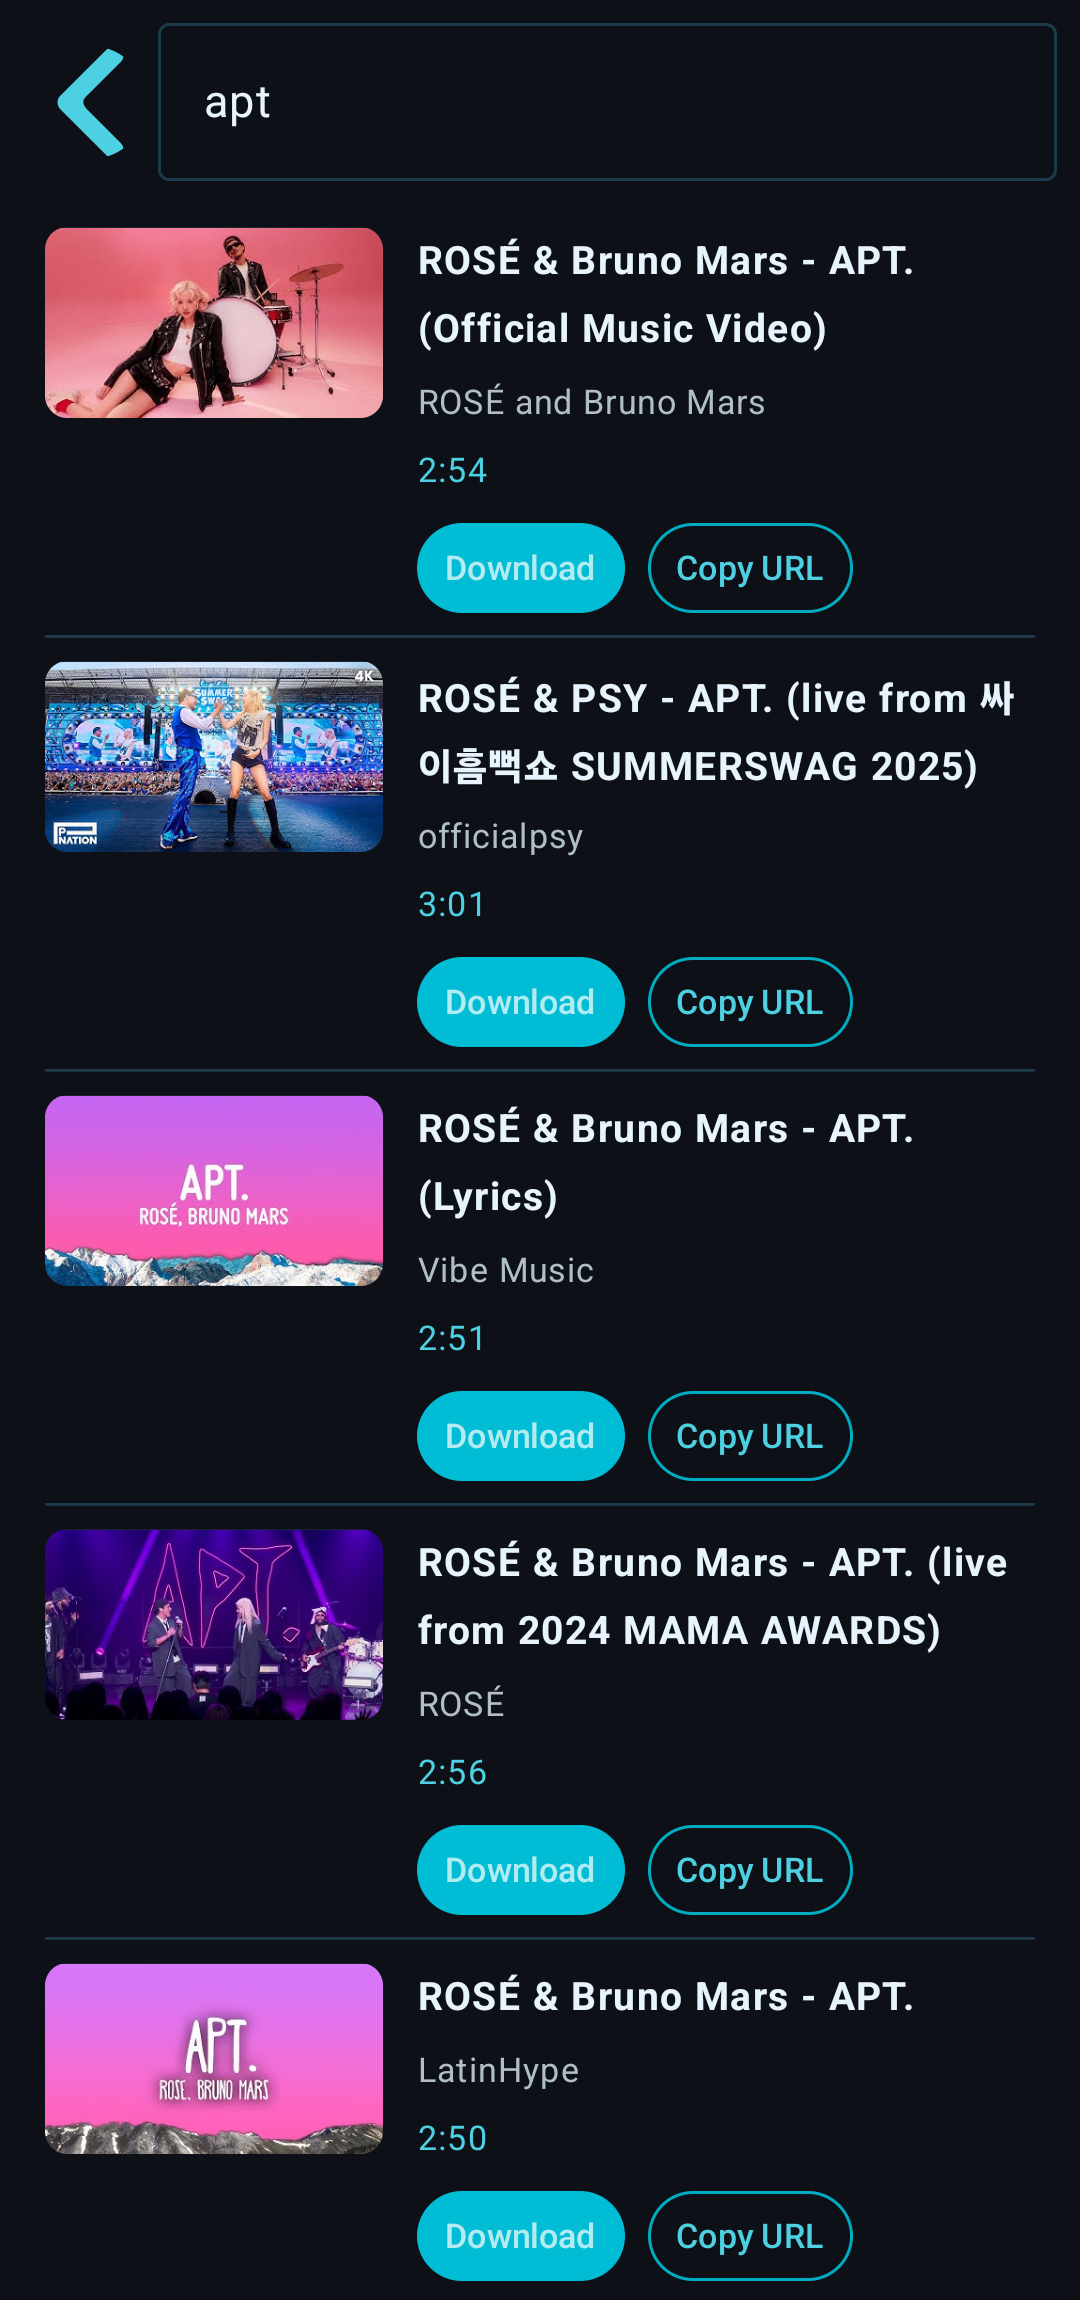
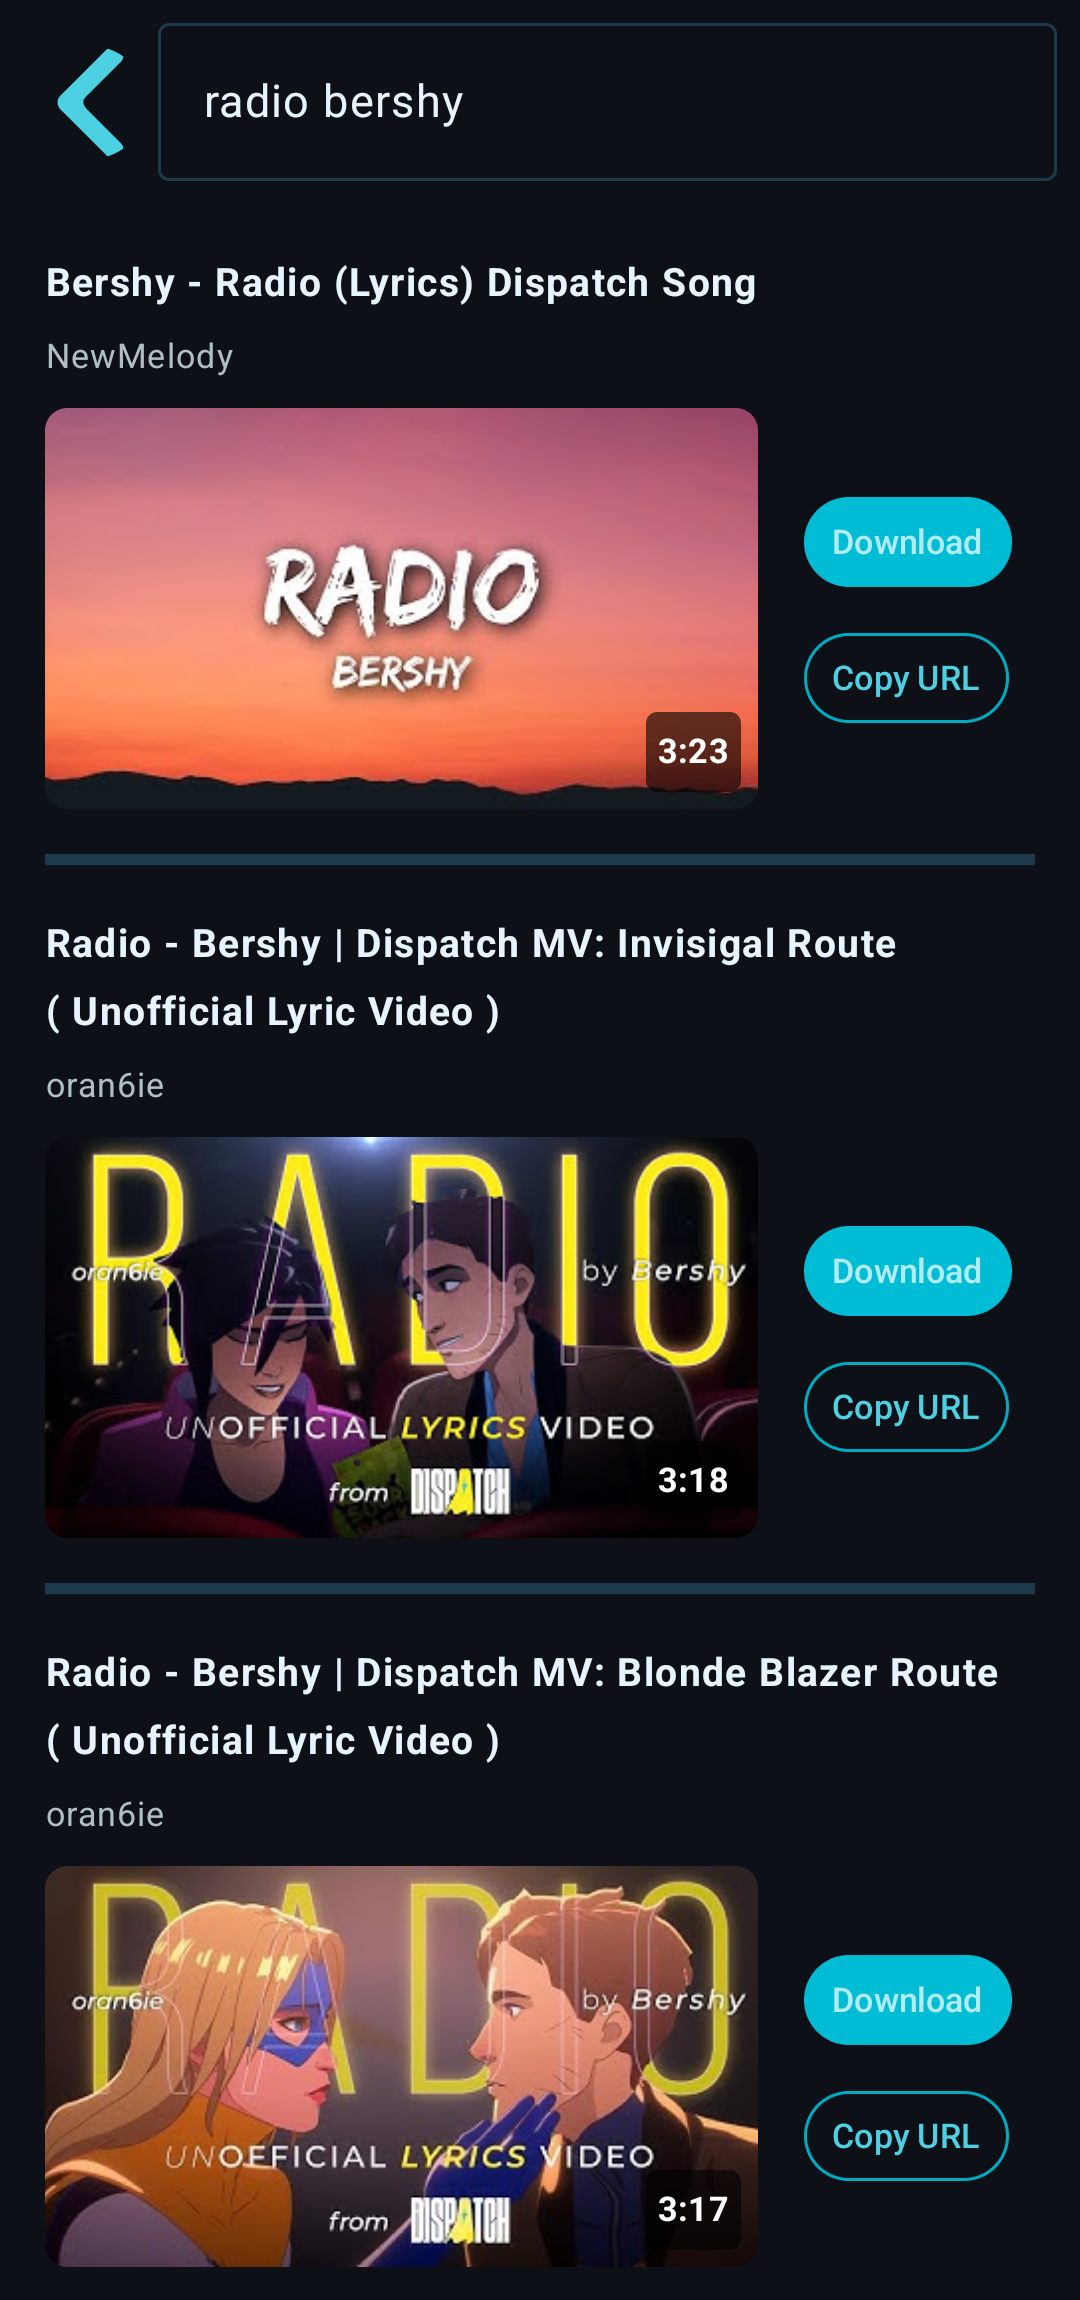
Update to v3.6.0 - Branding Update

diff --git a/app/src/main/java/com/pg_axis/ytcnv/SearchScreen.kt b/app/src/main/java/com/pg_axis/ytcnv/SearchScreen.kt
@@ -29,10 +29,22 @@ import androidx.compose.ui.text.font.FontWeight
 import androidx.compose.ui.text.input.ImeAction
 import androidx.compose.ui.text.style.TextAlign
 import androidx.compose.ui.text.style.TextOverflow
+import androidx.compose.ui.tooling.preview.Preview
 import androidx.compose.ui.unit.dp
 import androidx.compose.ui.unit.sp
 import coil.compose.AsyncImage
 import com.pg_axis.ytcnv.ui.theme.*
+
+@Preview
+@Composable
+fun SearchPreview() {
+    val viewModel = remember {
+        SearchViewModel(PreviewSettings())
+    }
+    YTCnvTheme {
+        SearchScreen({}, {}, viewModel)
+    }
+}
 
 @Composable
 fun SearchScreen(
@@ -215,53 +227,60 @@ fun SearchResultRow(
         )
         Spacer(modifier = Modifier.height(6.dp))
         // Thumbnail with duration overlay
-        Box(
-            modifier = Modifier
-                .fillMaxWidth()
-                .aspectRatio(16f / 9f)
-                .clip(RoundedCornerShape(8.dp))
-                .background(CardDark)
-        ) {
-            AsyncImage(
-                model = item.thumbnailUrl,
-                contentDescription = null,
-                contentScale = ContentScale.Crop,
-                modifier = Modifier.fillMaxSize()
-            )
-            Text(
-                text = item.duration,
-                color = Color.White,
-                fontSize = 12.sp,
-                fontWeight = FontWeight.Bold,
-                modifier = Modifier
-                    .align(Alignment.BottomEnd)
-                    .padding(6.dp)
-                    .background(Color.Black.copy(alpha = 0.6f), RoundedCornerShape(4.dp))
-                    .padding(horizontal = 4.dp, vertical = 2.dp)
-            )
-        }
-        Spacer(modifier = Modifier.height(8.dp))
-        // Buttons
         Row(
             modifier = Modifier.fillMaxWidth(),
-            horizontalArrangement = Arrangement.Center
+            verticalAlignment = Alignment.CenterVertically
         ) {
-            Button(
-                onClick = onDownload,
-                contentPadding = PaddingValues(horizontal = 10.dp, vertical = 4.dp),
-                modifier = Modifier.height(32.dp)
+            Box(
+                modifier = Modifier
+                    .weight(1f)
+                    .aspectRatio(16f / 9f)
+                    .clip(RoundedCornerShape(8.dp))
             ) {
-                Text("Download", fontSize = 12.sp)
+                AsyncImage(
+                    model = item.thumbnailUrl,
+                    contentDescription = null,
+                    contentScale = ContentScale.Crop,
+                    modifier = Modifier.fillMaxSize()
+                )
+                Text(
+                    text = item.duration,
+                    color = Color.White,
+                    fontSize = 12.sp,
+                    fontWeight = FontWeight.Bold,
+                    modifier = Modifier
+                        .align(Alignment.BottomEnd)
+                        .padding(6.dp)
+                        .background(Color.Black.copy(alpha = 0.6f), RoundedCornerShape(4.dp))
+                        .padding(horizontal = 4.dp, vertical = 2.dp)
+                )
             }
             Spacer(modifier = Modifier.width(8.dp))
-            OutlinedButton(
-                onClick = onCopyUrl,
-                contentPadding = PaddingValues(horizontal = 10.dp, vertical = 4.dp),
-                modifier = Modifier.height(32.dp)
+            // Buttons
+            Column(
+                modifier = Modifier
+                    .padding(8.dp)
+                    .fillMaxHeight(),
+                verticalArrangement = Arrangement.spacedBy(8.dp),
             ) {
-                Text("Copy URL", fontSize = 12.sp, color = CyanLight)
+                Button(
+                    onClick = onDownload,
+                    contentPadding = PaddingValues(horizontal = 10.dp, vertical = 4.dp),
+                    modifier = Modifier.height(32.dp)
+                ) {
+                    Text("Download", fontSize = 12.sp)
+                }
+                Spacer(modifier = Modifier.width(8.dp))
+                OutlinedButton(
+                    onClick = onCopyUrl,
+                    contentPadding = PaddingValues(horizontal = 10.dp, vertical = 4.dp),
+                    modifier = Modifier.height(32.dp)
+                ) {
+                    Text("Copy URL", fontSize = 12.sp, color = CyanLight)
+                }
             }
         }
+
     }
-    HorizontalDivider(color = BorderColor, modifier = Modifier.padding(horizontal = 16.dp))
+    HorizontalDivider(color = BorderColor, thickness = 4.dp, modifier = Modifier.padding(horizontal = 16.dp))
 }

diff --git a/app/src/main/java/com/pg_axis/ytcnv/SearchViewModel.kt b/app/src/main/java/com/pg_axis/ytcnv/SearchViewModel.kt
@@ -3,6 +3,8 @@ package com.pg_axis.ytcnv
 import androidx.compose.runtime.getValue
 import androidx.compose.runtime.mutableStateOf
 import androidx.compose.runtime.setValue
+import androidx.compose.ui.text.TextRange
+import androidx.compose.ui.text.input.TextFieldValue
 import androidx.lifecycle.ViewModel
 import androidx.lifecycle.viewModelScope
 import kotlinx.coroutines.Dispatchers
@@ -12,22 +14,22 @@ import org.schabi.newpipe.extractor.stream.StreamInfoItem
 
 class SearchViewModel(val settings: ISettings) : ViewModel() {
 
-    var searchQuery by mutableStateOf("")
+    var searchQuery by mutableStateOf(TextFieldValue(""))
     var results by mutableStateOf<List<SearchResultItem>>(emptyList())
     var isLoading by mutableStateOf(false)
     var errorMessage by mutableStateOf<String?>(null)
 
-    fun onQueryChanged(value: String) { searchQuery = value }
+    fun onQueryChanged(value: TextFieldValue) { searchQuery = value }
 
     fun onSearch() {
-        if (searchQuery.isBlank()) return
-        updateSearchHistory(searchQuery.trim())
+        if (searchQuery.text.isBlank()) return
+        updateSearchHistory(searchQuery.text.trim())
         viewModelScope.launch(Dispatchers.IO) {
             isLoading = true
             errorMessage = null
             results = emptyList()
             try {
-                val extractor = ServiceList.YouTube.getSearchExtractor(searchQuery.trim())
+                val extractor = ServiceList.YouTube.getSearchExtractor(searchQuery.text.trim())
                 extractor.fetchPage()
                 results = extractor.initialPage.items
                     .filterIsInstance<StreamInfoItem>()
@@ -51,8 +53,10 @@ class SearchViewModel(val settings: ISettings) : ViewModel() {
     }
 
     fun onHistoryItemTapped(query: String) {
-        searchQuery = query
-        onSearch()
+        searchQuery = TextFieldValue(
+            text = query,
+            selection = TextRange(query.length)
+        )
     }
 
     fun onRemoveHistoryItem(query: String) {

diff --git a/app/src/main/java/com/pg_axis/ytcnv/SettingsViewModel.kt b/app/src/main/java/com/pg_axis/ytcnv/SettingsViewModel.kt
@@ -1,5 +1,7 @@
 package com.pg_axis.ytcnv
 
+import android.provider.DocumentsContract
+import androidx.core.net.toUri
 import androidx.lifecycle.ViewModel
 
 class SettingsViewModel(val settings: ISettings, val mainViewModel: MainViewModel) : ViewModel() {
@@ -18,8 +20,8 @@ class SettingsViewModel(val settings: ISettings, val mainViewModel: MainViewMode
     }
     fun onFolderPicked(uri: String, folderName: String) {
         settings.fileUri = uri
-        settings.mainFolder = folderName
-        settings.finalFolder = ""
+        settings.mainFolder = getMainFolder(uri)
+        settings.finalFolder = " - $folderName"
         (settings as? SettingsSave)?.saveSettings()
     }
     fun onNotifyOnFinishChanged(value: Boolean) {
@@ -30,5 +32,13 @@ class SettingsViewModel(val settings: ISettings, val mainViewModel: MainViewMode
     fun onNotifyOnFailChanged(value: Boolean) {
         settings.notifyOnFail = value
         (settings as? SettingsSave)?.saveSettings()
+    }
+
+    private fun getMainFolder(uri: String): String {
+        val docId = DocumentsContract.getTreeDocumentId(uri.toUri())
+        val parts = docId.split(':')
+
+        return if (parts[0].equals("primary", true)) "Internal storage"
+        else "SD card"
     }
 }

diff --git a/app/src/main/java/com/pg_axis/ytcnv/MainViewModel.kt b/app/src/main/java/com/pg_axis/ytcnv/MainViewModel.kt
@@ -147,7 +147,7 @@ class MainViewModel(application: Application) : AndroidViewModel(application) {
 
         if (cleanedUrl.isBlank()) {
             withContext(Dispatchers.Main) {
-                showPopup("No URL", "Please enter a YouTube URL", 2)
+                showPopup("No URL", "The URL parser could not find a YouTube ID in that URL. Please enter a YouTube URL", 2)
                 applyQuickDownloadState()
             }
             settings.isDownloadRunning = false
@@ -251,7 +251,7 @@ class MainViewModel(application: Application) : AndroidViewModel(application) {
         if (cleanedUrl.isBlank()) {
             withContext(Dispatchers.Main) {
                 applyQuickDownloadState()
-                showPopup("No URL", "Please enter a YouTube URL", 2)
+                showPopup("No URL", "The URL parser could not find a YouTube ID in that URL. Please enter a YouTube URL", 2)
             }
             settings.isDownloadRunning = false
             return@withContext

diff --git a/app/src/main/java/com/pg_axis/ytcnv/StringUtils.kt b/app/src/main/java/com/pg_axis/ytcnv/StringUtils.kt
@@ -1,13 +1,11 @@
 package com.pg_axis.ytcnv
 
-import java.util.Locale
-
 object StringUtils {
 
     fun cleanUrl(url: String?): String {
         if (url.isNullOrBlank()) return ""
         var cleaned = url.trim()
-        listOf("https://", "http://", "www.", "m.", "youtube.com/", "youtu.be/", "watch?v=")
+        listOf("https://", "http://", "www.", "m.", "music.", "youtube.com/", "youtu.be/", "watch?v=")
             .forEach { cleaned = cleaned.replace(it, "", ignoreCase = true) }
         if (cleaned.length < 11) return ""
         return cleaned.substring(0, 11)
